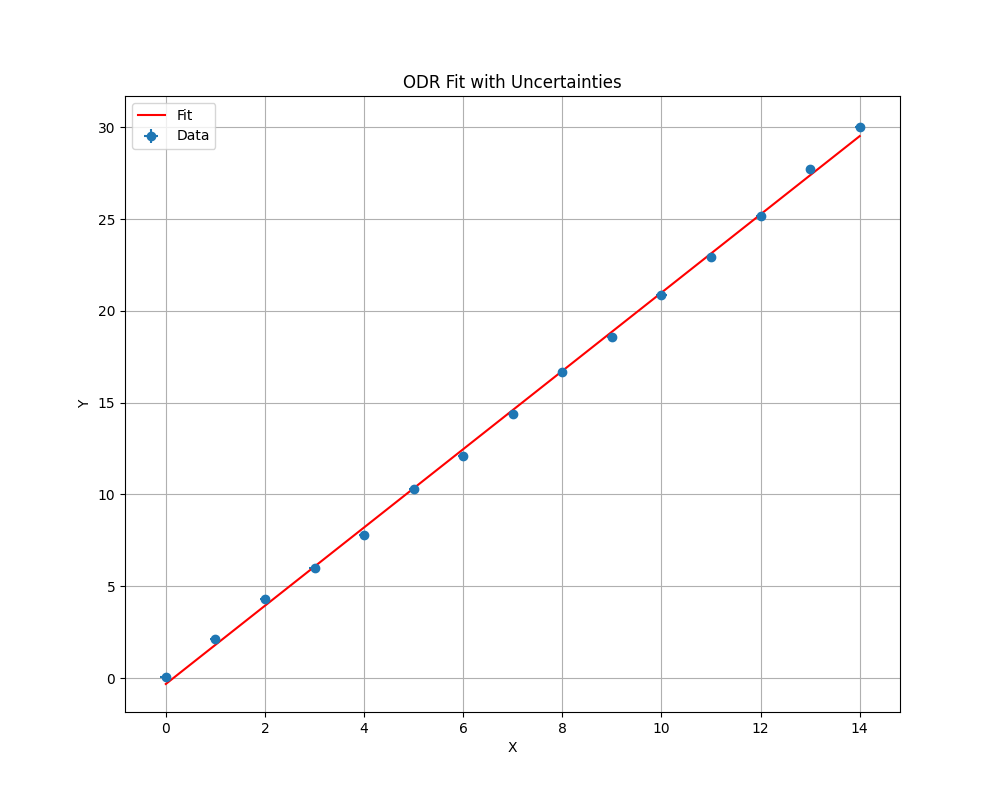
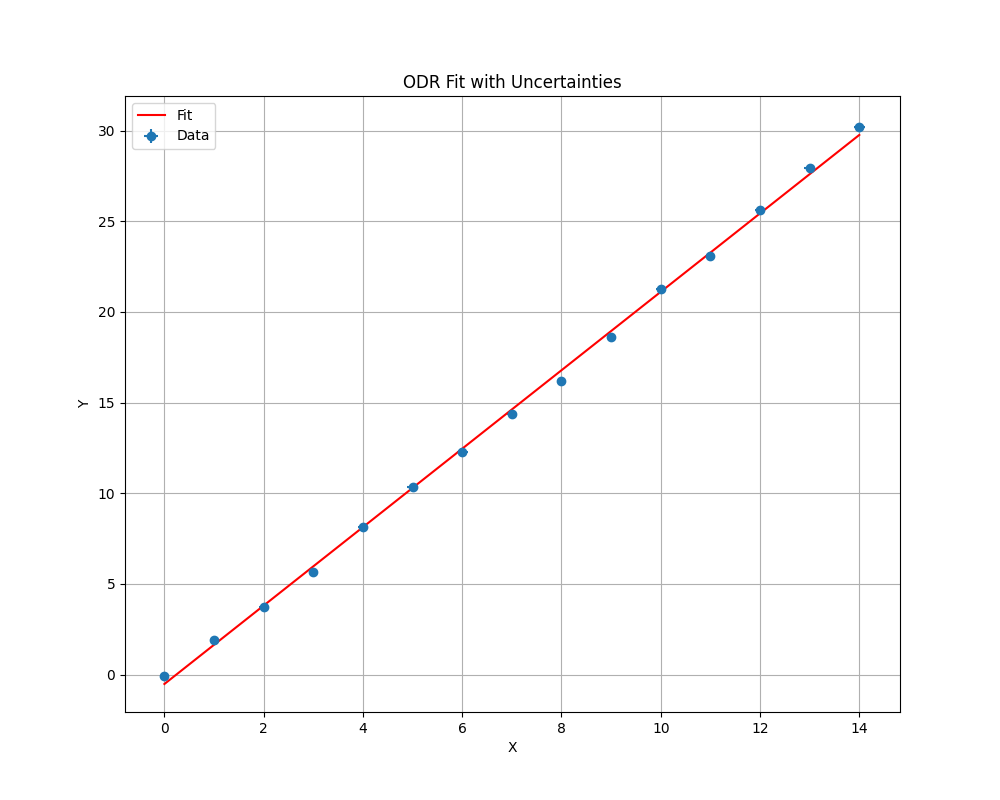
save all scv data as floats
and added docstring to generate_fake_data.py

diff --git a/generate_fake_data.py b/generate_fake_data.py
@@ -1,3 +1,21 @@
+"""Generate synthetic data points with uncertainties following a quadratic trend.
+
+This script creates a dataset of n points following a quadratic relationship
+y = 2x + 0.01x² with added Gaussian noise. Both x and y coordinates have
+associated uncertainties (dx, dy) drawn from normal distributions.
+
+Data generation details:
+- x: Evenly spaced values from 0 to n-1
+- dx: Positive uncertainties, normal distribution (μ=0.1, σ=0.01)
+- y: Follows 2x + 0.01x² with added Gaussian noise (σ=0.2)
+- dy: Positive uncertainties, normal distribution (μ=0.15, σ=0.025)
+
+Output:
+- Saves data to 'data.csv' with columns: x, dx, y, dy
+- All values are saved as floats with 4 decimal precision
+- CSV includes header row and uses comma as delimiter
+"""
+
 import numpy as np
 
 n = 15
@@ -15,5 +33,5 @@ np.savetxt(
     delimiter=",",
     header="x,dx,y,dy",
     comments="",
-    fmt=["%d", "%.4f", "%.4f", "%.4f"],
+    fmt="%.4f",  # Use same float format for all columns
 )

diff --git a/README.md b/README.md
@@ -56,18 +56,18 @@ Running the script with the provided example data will produce the following out
 ```
 Regression Results:
 -----------------
-Slope: 2.132292 ± 0.018035
-Intercept: -0.325048 ± 0.149405
+Slope: 2.162649 ± 0.018603
+Intercept: -0.521548 ± 0.147845
 
 Covariance matrix:
- 2.608150e-04 -1.854059e-03
--1.854059e-03  1.789871e-02
-Pearson's Correlation coefficient: -0.688081
+ 2.222766e-04 -1.474776e-03
+-1.474776e-03  1.403852e-02
+Pearson's Correlation coefficient: -0.536201
 
-Chi-square: 16.212495
+Chi-square: 20.241101
 Degrees of freedom: 13
-Reduced chi-square: 1.247115
-P-value: 0.237845
+Reduced chi-square: 1.557008
+P-value: 0.089359
 ```
 These results will be saved as a text file. Three figures will also be saved, showing the data points with error bars and the best-fit line, residuals plot, and parameter correlation ellipses for the 1σ, 2σ, and 3σ confidence levels.
 
